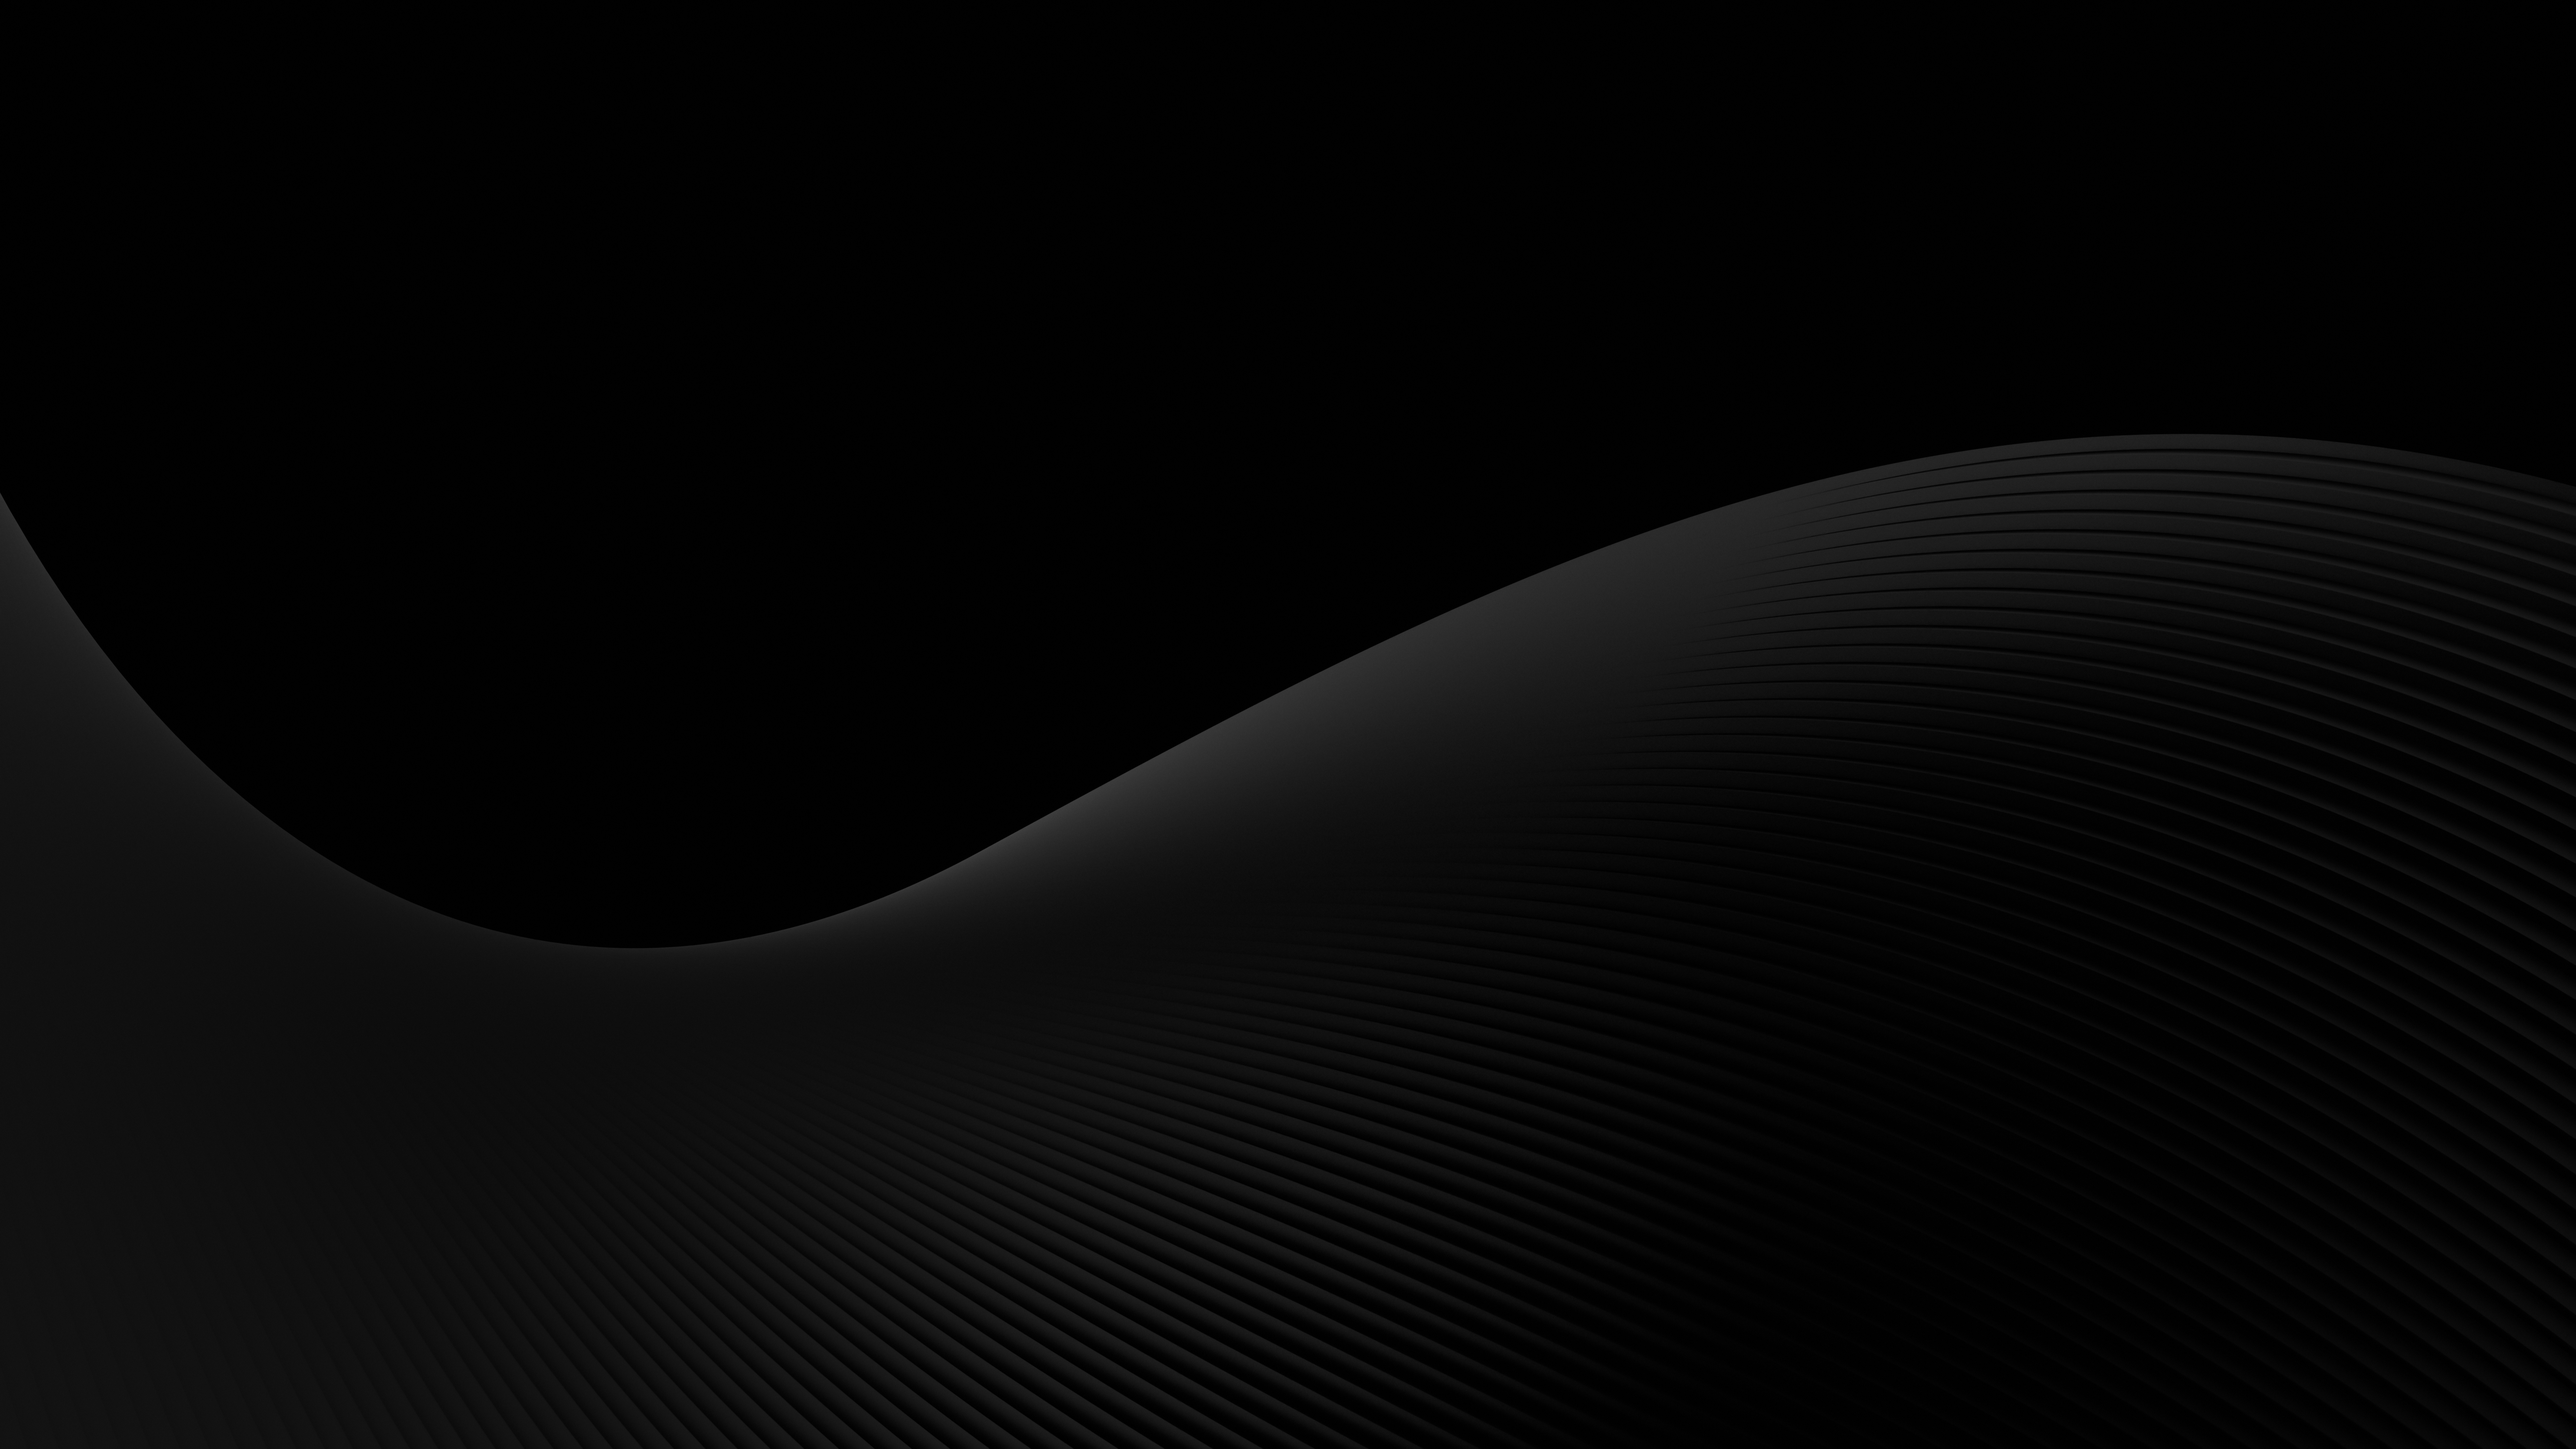
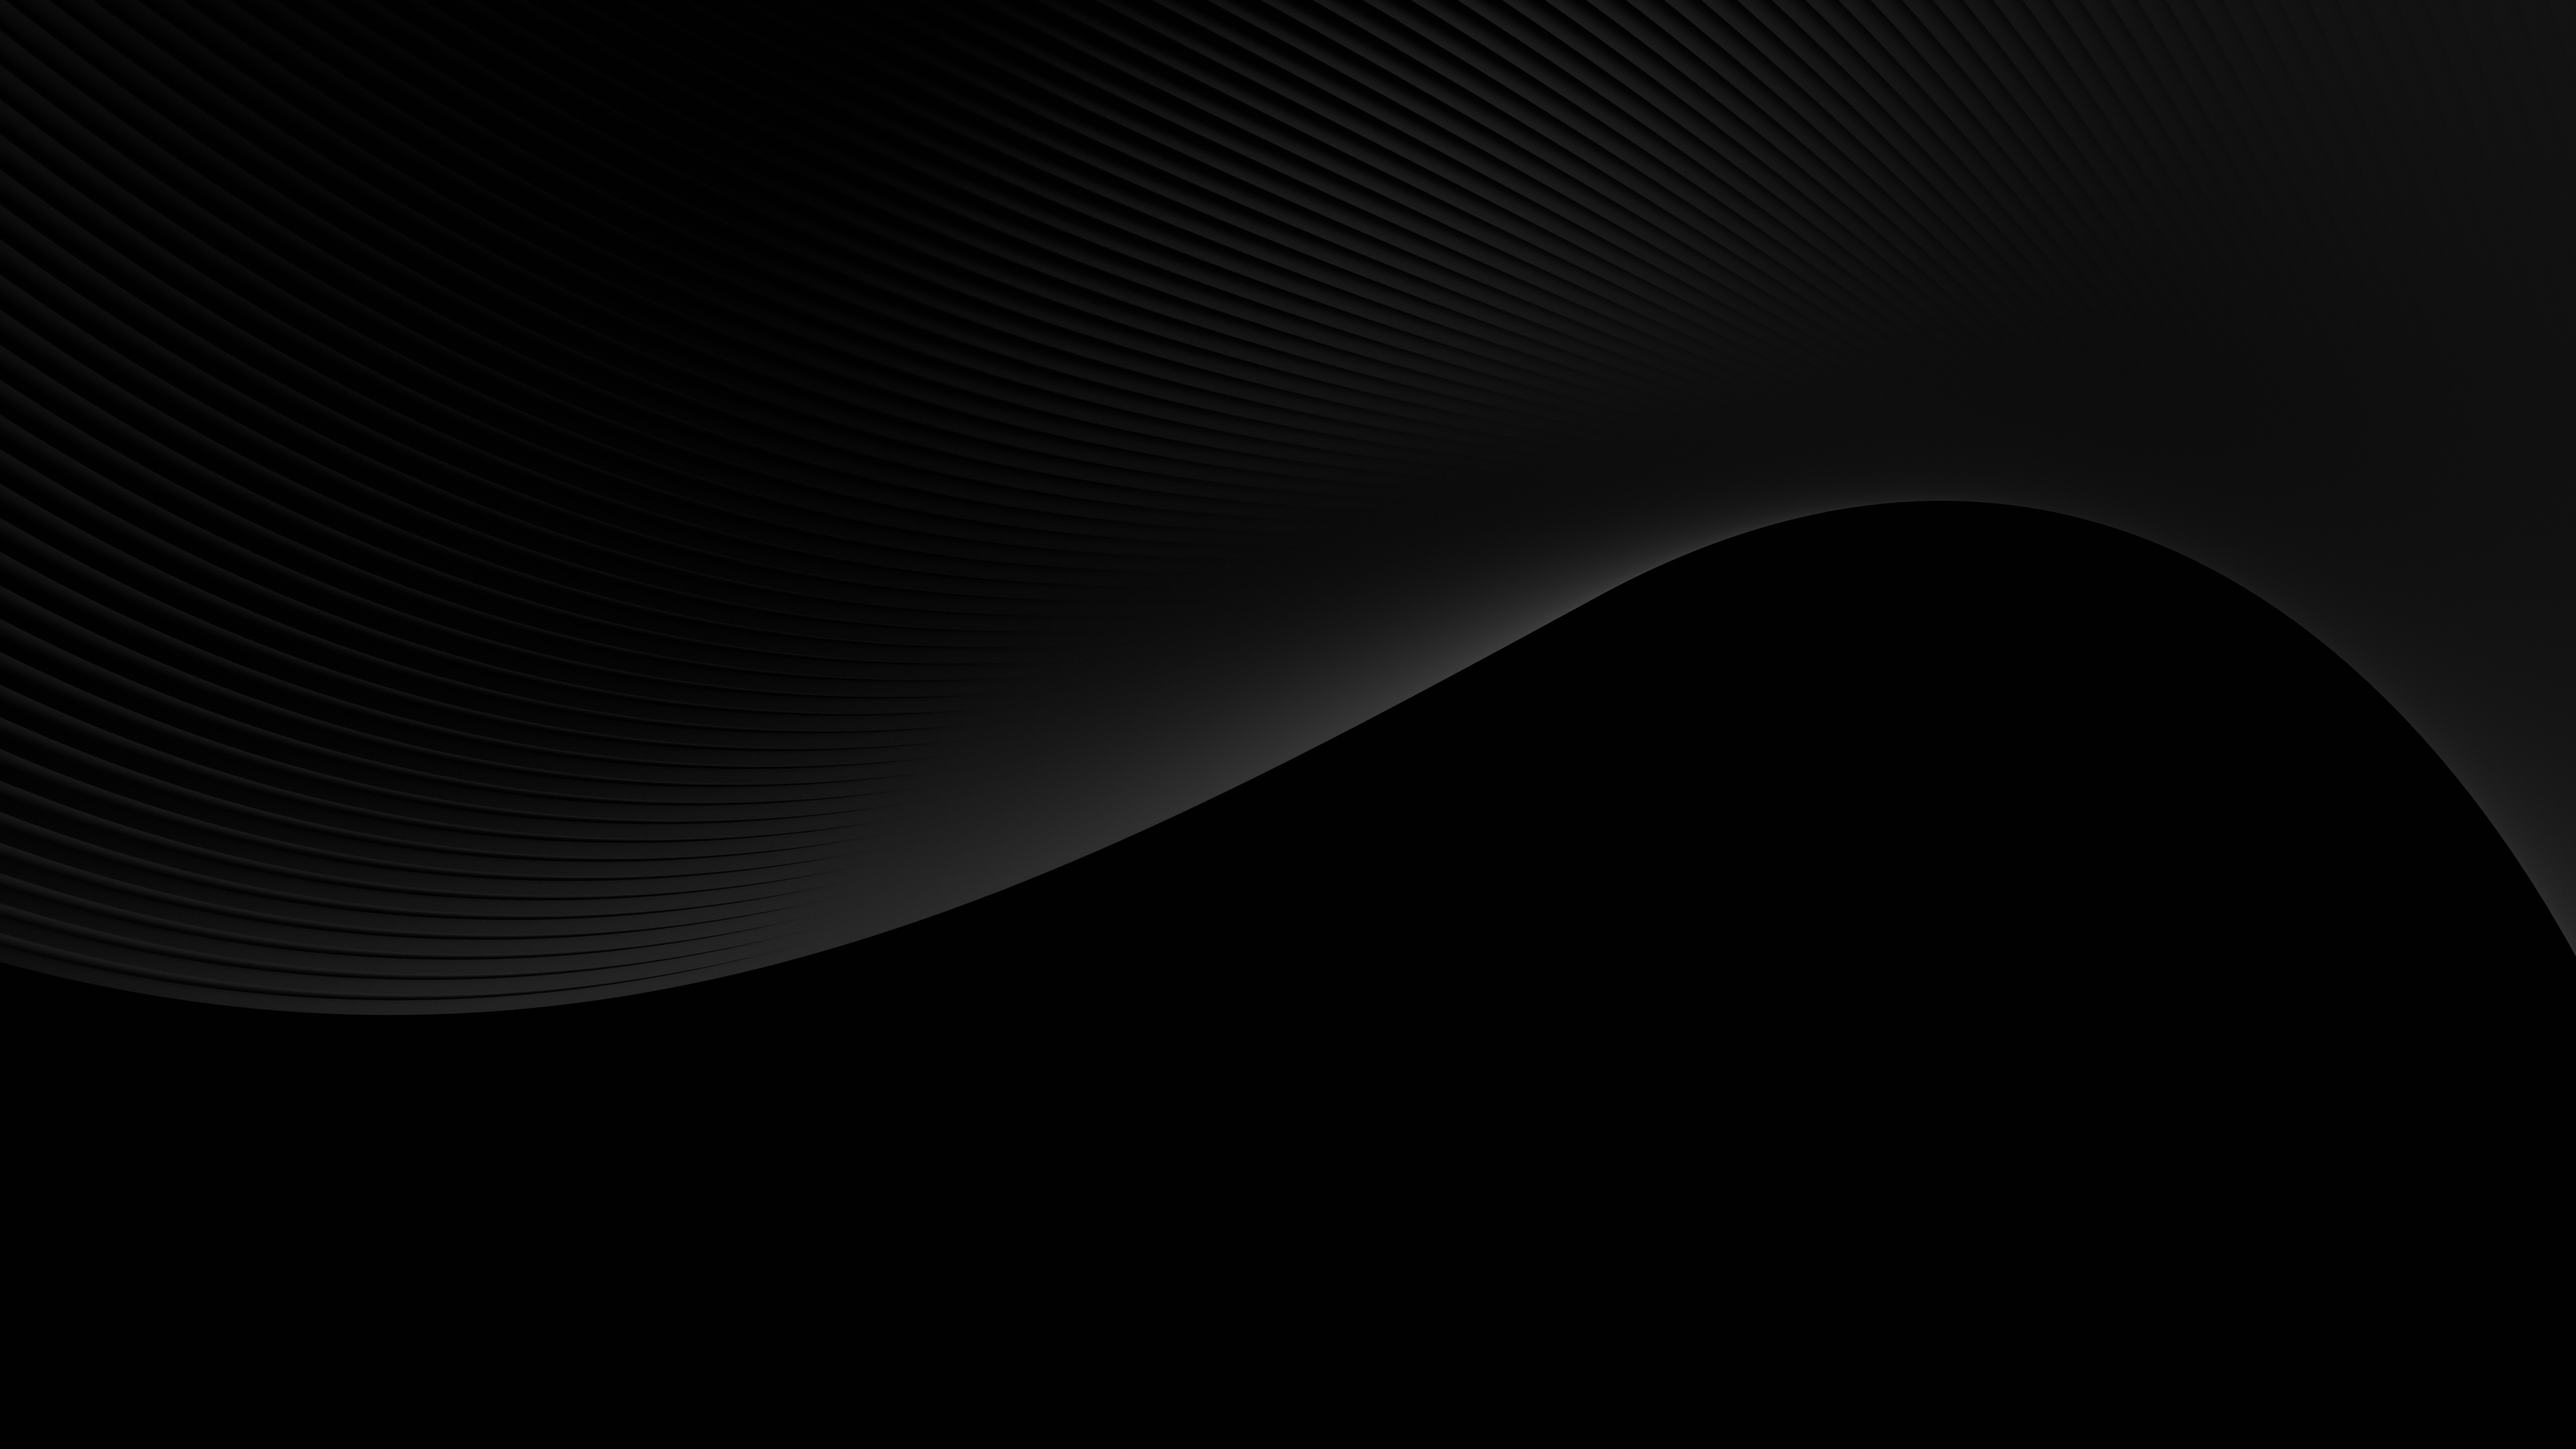
project set sup started

diff --git a/src/App.tsx b/src/App.tsx
@@ -1,12 +1,17 @@
 import { AppContentContainer } from "./AppStyled";
+import { NavBar } from "./components/NavBar";
+import About from "./components/pages/About";
 import HomePage from "./components/pages/homePage";
 
 function App() {
+
 
   return (
     <main>
       <AppContentContainer>
       <HomePage />
+      <NavBar />
+      <About />
       </AppContentContainer>
     </main>
   );

diff --git a/src/components/pages/AboutStyled.tsx b/src/components/pages/AboutStyled.tsx
@@ -1,9 +1,9 @@
 import styled from '@emotion/styled';
 
-export const HomePageOuterContainer = styled.div`
+export const AboutPageOuterContainer = styled.div`
  height: 100vh;
   width: 100vw;
-  background-image: url("dots.jpeg");
+  background-image: url("reverse_dots.jpeg");
   background-repeat: no-repeat;
   background-size: cover;
   box-sizing: border-box;

diff --git a/src/index.css b/src/index.css
@@ -6,12 +6,6 @@ html, body {
 }
 
 main {
-  height: 100vh;
-  width: 100vw;
-  background-image: url("home_bkgd.jpeg");
-  background-repeat: no-repeat;
-  background-size: cover;
-  box-sizing: border-box;
   display: flex;
   flex-direction: column;
   justify-content: center;
@@ -19,3 +13,5 @@ main {
   text-align: center;
   color: white;
 }
+
+

diff --git a/src/components/NavBar.tsx b/src/components/NavBar.tsx
@@ -1,0 +1,15 @@
+import styled from '@emotion/styled';
+
+const NavBarStyled = styled.div`
+    width: 100vw;
+    height: 50px;
+    background-color: #041223;
+    z-index: 5;
+`
+export const NavBar: React.FC = () => {
+    return(
+        <NavBarStyled>
+
+        </NavBarStyled>
+    )
+}

diff --git a/src/components/pages/About.tsx b/src/components/pages/About.tsx
@@ -1,0 +1,12 @@
+import { AboutPageOuterContainer } from "./AboutStyled";
+
+const About: React.FC = () => {
+    return(
+        <AboutPageOuterContainer>
+            About Me Page
+        </AboutPageOuterContainer>
+    );
+}
+
+export default About;
+

diff --git a/src/AppStyled.tsx b/src/AppStyled.tsx
@@ -4,6 +4,7 @@ export const AppContentContainer = styled.div`
     width: 90%;
     height: 90%;
     display: flex;
+    flex-direction: column;
     justify-content: center;
     align-items: center;
 `
